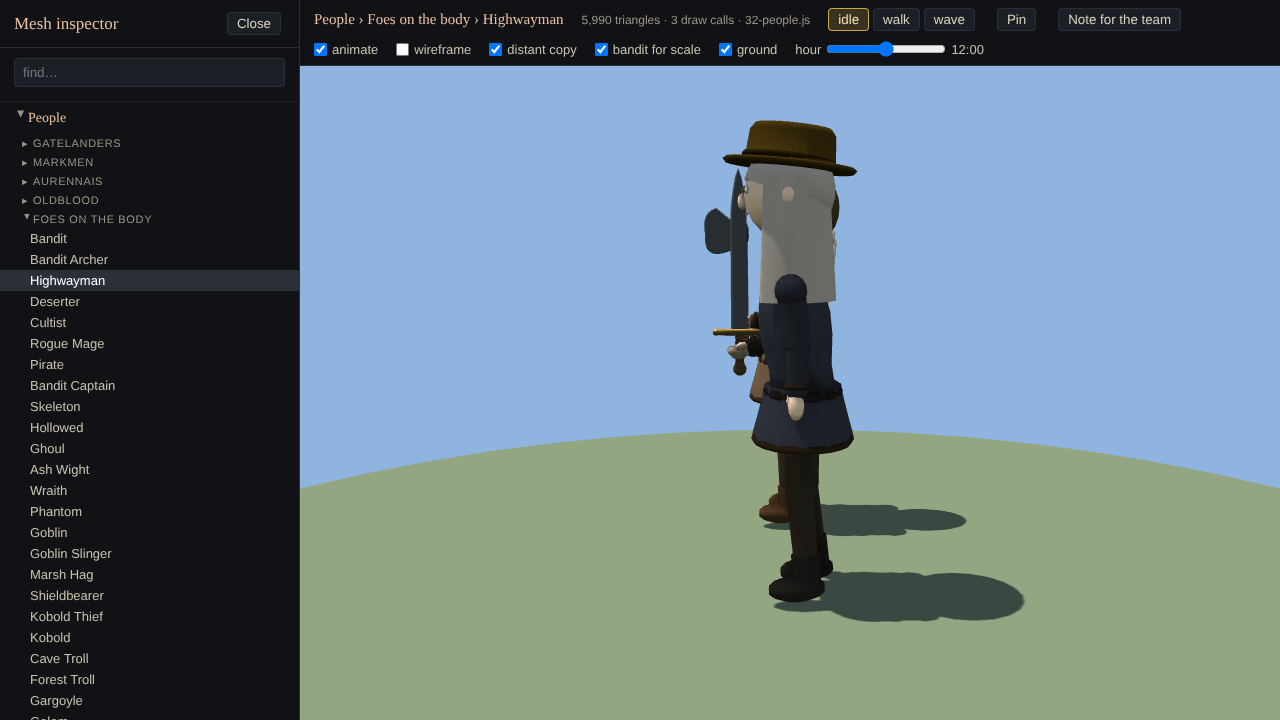
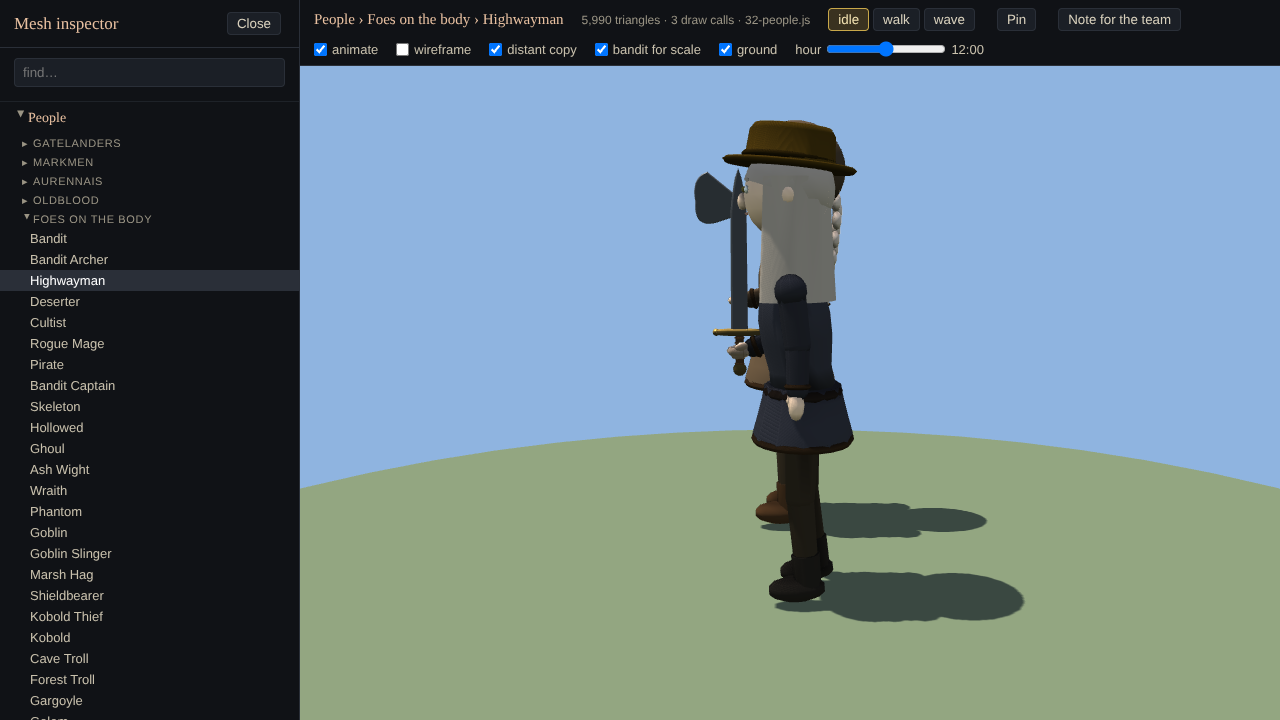
Systems: Session 1462 — a foe's spear reaches 2.4 m in a 40° line (#755 A)
Claude-Session: https://claude.ai/code/session_014Cp5E4o6sCBR62pZmfLXYG

diff --git a/js/74-strikes.js b/js/74-strikes.js
@@ -185,18 +185,24 @@ function foeWindUp(e){
   return base;
 }
 // S1041 — the weapon a person-bodied foe holds (its genome's, 32-people.js), and that weapon's reach from your table: a knife
-// the dagger's 1.2, the rest (sword, axe, mace, cutlass, and the staff and spear the sheet does not list) the sword's 1.6
-const FOE_WPN_ROW={dagger:'Dagger',sword:'Sword',axe:'Mace',mace:'Mace',cutlass:'Scimitar',fists:'Fists'};
+// the dagger's 1.2, the rest (sword, axe, mace, cutlass, and the staff the sheet does not list) the sword's 1.6
+// S1462 — a spear is your Spear's row (Michael's A on #755): 2.4 m in a 40° line, the Skeleton's, the Ash Wight's and a Deserter's.
+// Only its reach and arc are the row's; its tell, damage, heavy blow and feint stay the humanoid's. It starts its tell as much
+// farther out as its reach is past the sword's (2.0 m, hull to hull), so a spearman thrusts from its own distance.
+const FOE_WPN_ROW={dagger:'Dagger',sword:'Sword',axe:'Mace',mace:'Mace',cutlass:'Scimitar',spear:'Spear',fists:'Fists'};
 function foeWeaponKind(e){if(e&&e._disarmed)return 'fists';const P=e&&e.limbs&&e.limbs.person,G=P&&P.g;return G?(G.gear==='spear'?'spear':G.wpn||null):null;}
-function foeWeaponReach(e){const k=foeWeaponKind(e);return WEAPON_ATTACKS[FOE_WPN_ROW[k]||'Sword'].reach;}
+function foeWeaponRow(e){return WEAPON_ATTACKS[FOE_WPN_ROW[foeWeaponKind(e)]||'Sword'];}
+function foeWeaponReach(e){return foeWeaponRow(e).reach;}
+function foeWeaponArc(e,deg){const k=foeWeaponKind(e);return k==='spear'?WEAPON_ATTACKS.Spear.arc:deg;}
 // a foe's reach, centre to centre: engage (its tell starts inside it; null = the place's own, 1.1 or 0.9), the blow, its arc,
 // and the wolf's lunge. A boss with a bite (the Faolchú) engages and bites at its biteRange less 0.9 (its snout), hull to hull.
 function foeReach(e,inDun){
   const r=foeAttack(e);
   if(e&&e.isBoss&&e.bossDef&&e.bossDef.biteRange){const b=reachTo(e,e.bossDef.biteRange-.9);return {engage:b,blow:b,deg:r.arc,lunge:0};}
   if(!r.hulls)return {engage:inDun?.9:1.1,blow:r.reach,deg:r.arc,lunge:0};
-  const blow=foeFamily(e)==='humanoid'?foeWeaponReach(e):r.reach,L=r.lunge||0;
-  return {engage:reachTo(e,r.engage+L),blow:reachTo(e,blow),deg:r.arc,lunge:L,stand:reachTo(e,r.engage)};
+  const hum=foeFamily(e)==='humanoid',blow=hum?foeWeaponReach(e):r.reach,L=r.lunge||0;
+  const eng=r.engage+(hum?Math.max(0,blow-WEAPON_ATTACKS.Sword.reach):0); /* S1462 — the spear's 0.8 past the sword */
+  return {engage:reachTo(e,eng+L),blow:reachTo(e,blow),deg:hum?foeWeaponArc(e,r.arc):r.arc,lunge:L,stand:reachTo(e,eng)};
 }
 // ── Armour as a share (decision #181 B, held for this table): every blow on you is × 50 / (50 + armour), so 50 armour
 // halves it and nothing reaches 1 by armour alone. It replaces the flat half a point a point that put the cliff between

diff --git a/docs/backlog.md b/docs/backlog.md
@@ -559,7 +559,7 @@ Michael marked all 96 images of the intake on the review page: 63 KEEP and 33 NO
 - **Ports and their trades** (quest writer; OG-093): chandlers, brokers, salvagers and wreckers, an Explorers' and a Navigators' Guild; the Aurenne Trade Consortium is the Compact by another name. A pirate mark of the world's own in place of the skull and crossbones (OG-017, OG-093).
 
 ### L7. Arms and armour
-- **Weapons by island** (look and systems; OG-028): Celtic knotwork, runic carving and filigree; each island's set and shields (the harp kite, the painted round, the sun-star hoplon). Aurenne's kris, chakram and war fan become a falchion, a flyssa, a nimcha, a takouba. New kinds: the spear and the crossbow first (Michael's 6 A). **The spear, prototyped in the kit, Session 909** (bodies builder; `people.js` `buildSpear`, `builder-armour-spear*.jpg`): an ash shaft upright in the right fist, the fist closed round it, a full cloak thrown back off the right shoulder; owed: ~~the spear in a fight (B4)~~ — rules done, Session 1456 (#745 1 A: `WEAPON_ATTACKS.Spear`, a one-handed 2.4 m thrust in a 40° line; owed: the spear in the hand, first person and third, bodies builder), ~~the head by island~~ — done, Session 918 (`SPEAR_HEADS`: the Gatelands' leaf, the Mark's winged head, Aurenne's long head; `builder-armour-spearhead-*.jpg`), ~~the crossbow~~ — done, Session 941 (`people.js` `buildCrossbow`, `CROSSBOWS`: carried point down in the right fist, a make by island; `builder-armour-crossbow*.jpg`; owed: ~~spanning and shooting it, B4~~ — rules done, Session 1457 (#745 2 A: `XBOW`, `xbowShoot`, bolts; owed: the crossbow in the hand and its span drawn, bodies builder)). **The Gatelands' harp kite, prototyped, Session 911** (`people.js` `buildKite`, `builder-armour-kite*.jpg`): 48 by 86 cm on the left forearm by its enarmes; ~~the kite slung under a cloak~~ — done, Session 916 (and Session 917 fixed every cloak's outside, which lay in its own shadow: the sheet's normals pointed in) (with the hoplon: `buildShieldBack` takes the shape, `builder-armour-kite-slung*.jpg`, `builder-armour-hoplon-slung*.jpg`); ~~the sun-star hoplon~~ — done, Session 913 (`HOPLON`, `builder-armour-hoplon*.jpg`: 90 cm, dished 10 cm, held by porpax and antilabe).
+- **Weapons by island** (look and systems; OG-028): Celtic knotwork, runic carving and filigree; each island's set and shields (the harp kite, the painted round, the sun-star hoplon). Aurenne's kris, chakram and war fan become a falchion, a flyssa, a nimcha, a takouba. New kinds: the spear and the crossbow first (Michael's 6 A). **The spear, prototyped in the kit, Session 909** (bodies builder; `people.js` `buildSpear`, `builder-armour-spear*.jpg`): an ash shaft upright in the right fist, the fist closed round it, a full cloak thrown back off the right shoulder; owed: ~~the spear in a fight (B4)~~ — rules done, Session 1456 (#745 1 A: `WEAPON_ATTACKS.Spear`, a one-handed 2.4 m thrust in a 40° line; ~~the foes' spears at your reach~~ — done, Session 1462 (#755 A: the Skeleton, the Ash Wight and a Deserter thrust 2.4 m in a 40° line, their tell from 2.0); owed: the spear in the hand, first person and third, bodies builder), ~~the head by island~~ — done, Session 918 (`SPEAR_HEADS`: the Gatelands' leaf, the Mark's winged head, Aurenne's long head; `builder-armour-spearhead-*.jpg`), ~~the crossbow~~ — done, Session 941 (`people.js` `buildCrossbow`, `CROSSBOWS`: carried point down in the right fist, a make by island; `builder-armour-crossbow*.jpg`; owed: ~~spanning and shooting it, B4~~ — rules done, Session 1457 (#745 2 A: `XBOW`, `xbowShoot`, bolts; owed: the crossbow in the hand and its span drawn, bodies builder)). **The Gatelands' harp kite, prototyped, Session 911** (`people.js` `buildKite`, `builder-armour-kite*.jpg`): 48 by 86 cm on the left forearm by its enarmes; ~~the kite slung under a cloak~~ — done, Session 916 (and Session 917 fixed every cloak's outside, which lay in its own shadow: the sheet's normals pointed in) (with the hoplon: `buildShieldBack` takes the shape, `builder-armour-kite-slung*.jpg`, `builder-armour-hoplon-slung*.jpg`); ~~the sun-star hoplon~~ — done, Session 913 (`HOPLON`, `builder-armour-hoplon*.jpg`: 90 cm, dished 10 cm, held by porpax and antilabe).
 - **Legendary weapons** (quest writer and look; OG-075; with J's unique artifacts): five per island and the gate relics, each with its own silhouette; drop the MMO stat lines and the cursed row outside the gates. No flintlock: no firearms in hand, and guns stay cannon on the top ships (Michael's 7 A).
 - **Armour's top tiers** (look builder; OG-052, kept over OG-019): horned and finned helms for the high heavy tiers, a flame crest, great horns, a crescent-and-halo crown; antlered and haloed hoods on the high robes. **Prototyped by the concept artist, 17 Oct** (`helms.js`, `helms.html?set=a|b|c`); Michael's C, 18 Oct: the faces shut from Mithril up. ~~**The visors, as C**~~ — done, Session 1193 (bodies builder; a sight cut through on dense rows over a dark plate, a prow to a keel, breaths, pivots; `helms.check.mjs`, no ray of 15 views reaches a face; `helms-sheet-c.jpg`, `helms-visor-front.jpg`); ~~the helms into the kit's `people.js`~~ — done, Session 1197 (the dress flag `tier`: a helm by tier in place of the kettle, Iron keeping it; a robe's raised hood takes the tier's dressing; the builder's *armour tier* row; `builder-tierhelm-*.jpg`); owed: the game (after F4).
 - **Magical implements by school** (look builder and systems; OG-094, kept with Tine redone as fire): one emblem and colour per school, and four implements each (a staff, a wand or maul, an orb or foci, a tome). Uisce blue with a crescent moon, Cloch brown with a mountain, Scáth purple with an eye, Solas gold with a sun, Gaoth grey with a spiral. Tine's column is redrawn as fire: its rootwarden staff, briar wand and hearthbloom are dropped, and Solas gives up the fire it was given. Wands, orbs and tomes are new item lines beside the wooden staff, and the six-school icon set comes from this board. Objects worth having: a gate compass that finds gates, a stormwhistle Aurenne's navigators blow to call wind (Gaoth at sea), a quill that replays memories, a self-writing book. Each island has its own make: the Gatelands wood, bone and leather; the Mark stone and iron; Aurenne fine metal and carving.

diff --git a/docs/devlog/1462.md b/docs/devlog/1462.md
@@ -1,0 +1,30 @@
+## v80 — Session 1462 — a foe's spear reaches as far as yours
+Michael answered #755 on 26 Oct (A): a foe's spear reaches 2.4 m in a 40° line, the same row as yours. Section I held nothing
+for the systems builder and quest review lists no open finding of this lane's, so this was the first item.
+
+**What was wrong.** Three foes carry a spear: the Skeleton (one in two), the Ash Wight, and a Deserter that rolls one. An armed
+humanoid's blow was its weapon's reach (`foeWeaponReach`, S1041), but `FOE_WPN_ROW` had no spear, so a spear struck at the sword's
+1.6 m in the humanoid's 90° arc, and your spear (S1456) outreached each of them by 0.8.
+
+**The rule.** `FOE_WPN_ROW` gains `spear:'Spear'` (`74-strikes.js`), so the blow is `WEAPON_ATTACKS.Spear`'s 2.4 m hull to hull, and
+`foeReach` gives a spearman the row's 40° line where the humanoid has 90° (`foeWeaponArc`). As the answer said, nothing else changes:
+the tell (the Skeleton's 0.60 s), the damage, the heavy blow and the feint stay the humanoid's. One thing follows from the reach.
+The humanoid starts its tell at 1.2 m hull to hull, 0.4 inside the sword's blow; a spearman that waited for 1.2 would only use
+its reach on a player backing off. It now starts its tell as much farther out as its reach is past the sword's, 0.8, so at 2.0 m,
+which keeps the sword's 0.4 margin. This is the *keeps you at a distance* of the answer's option. The dagger is not moved inward:
+the step only adds and never takes away, so a knife still tells at 1.2. The town guards fight by their own code and are untouched.
+The dungeon (`90-main.js`) and the open world (`42-zone-enemies.js`) both read `foeReach`, so it holds in both places.
+
+### Verified (headless Chromium)
+- `foereach` 1/1, with a new row: a Bandit handed a spear (standing in for the three) starts its tell at 2.60 m centre to centre
+  (2.6 wanted: 2.0 + both hulls), its blow first reaches at 2.95 (3.0 wanted, inside the suite's 0.05 step as every row is), and
+  its arc measures 40°. Every other family reads as before: the Bandit's axe at 2.15, the Cultist's knife at 1.8, the wolf's leap
+  and miss, the troll's 140°.
+- `perkcatch`, `foeweapons`, `resolver` and `reachtable` 1/1.
+
+### Needs eyes
+- Whether a Skeleton's spear from 2.0 m reads as a thrust: its wind-up and strike are still the humanoid's overhand swing, the pose
+  every armed foe uses. A thrust of its own (the spear's pose, foe side) is the bodies builder's, as yours is once S1458's spear has
+  its move.
+- In a 2.5 m fort corridor a spearman now strikes from farther than a sword can answer; a player has to close inside 2.0 to trade.
+  That is the answer's intent, and worth a playtest in a narrow place.
